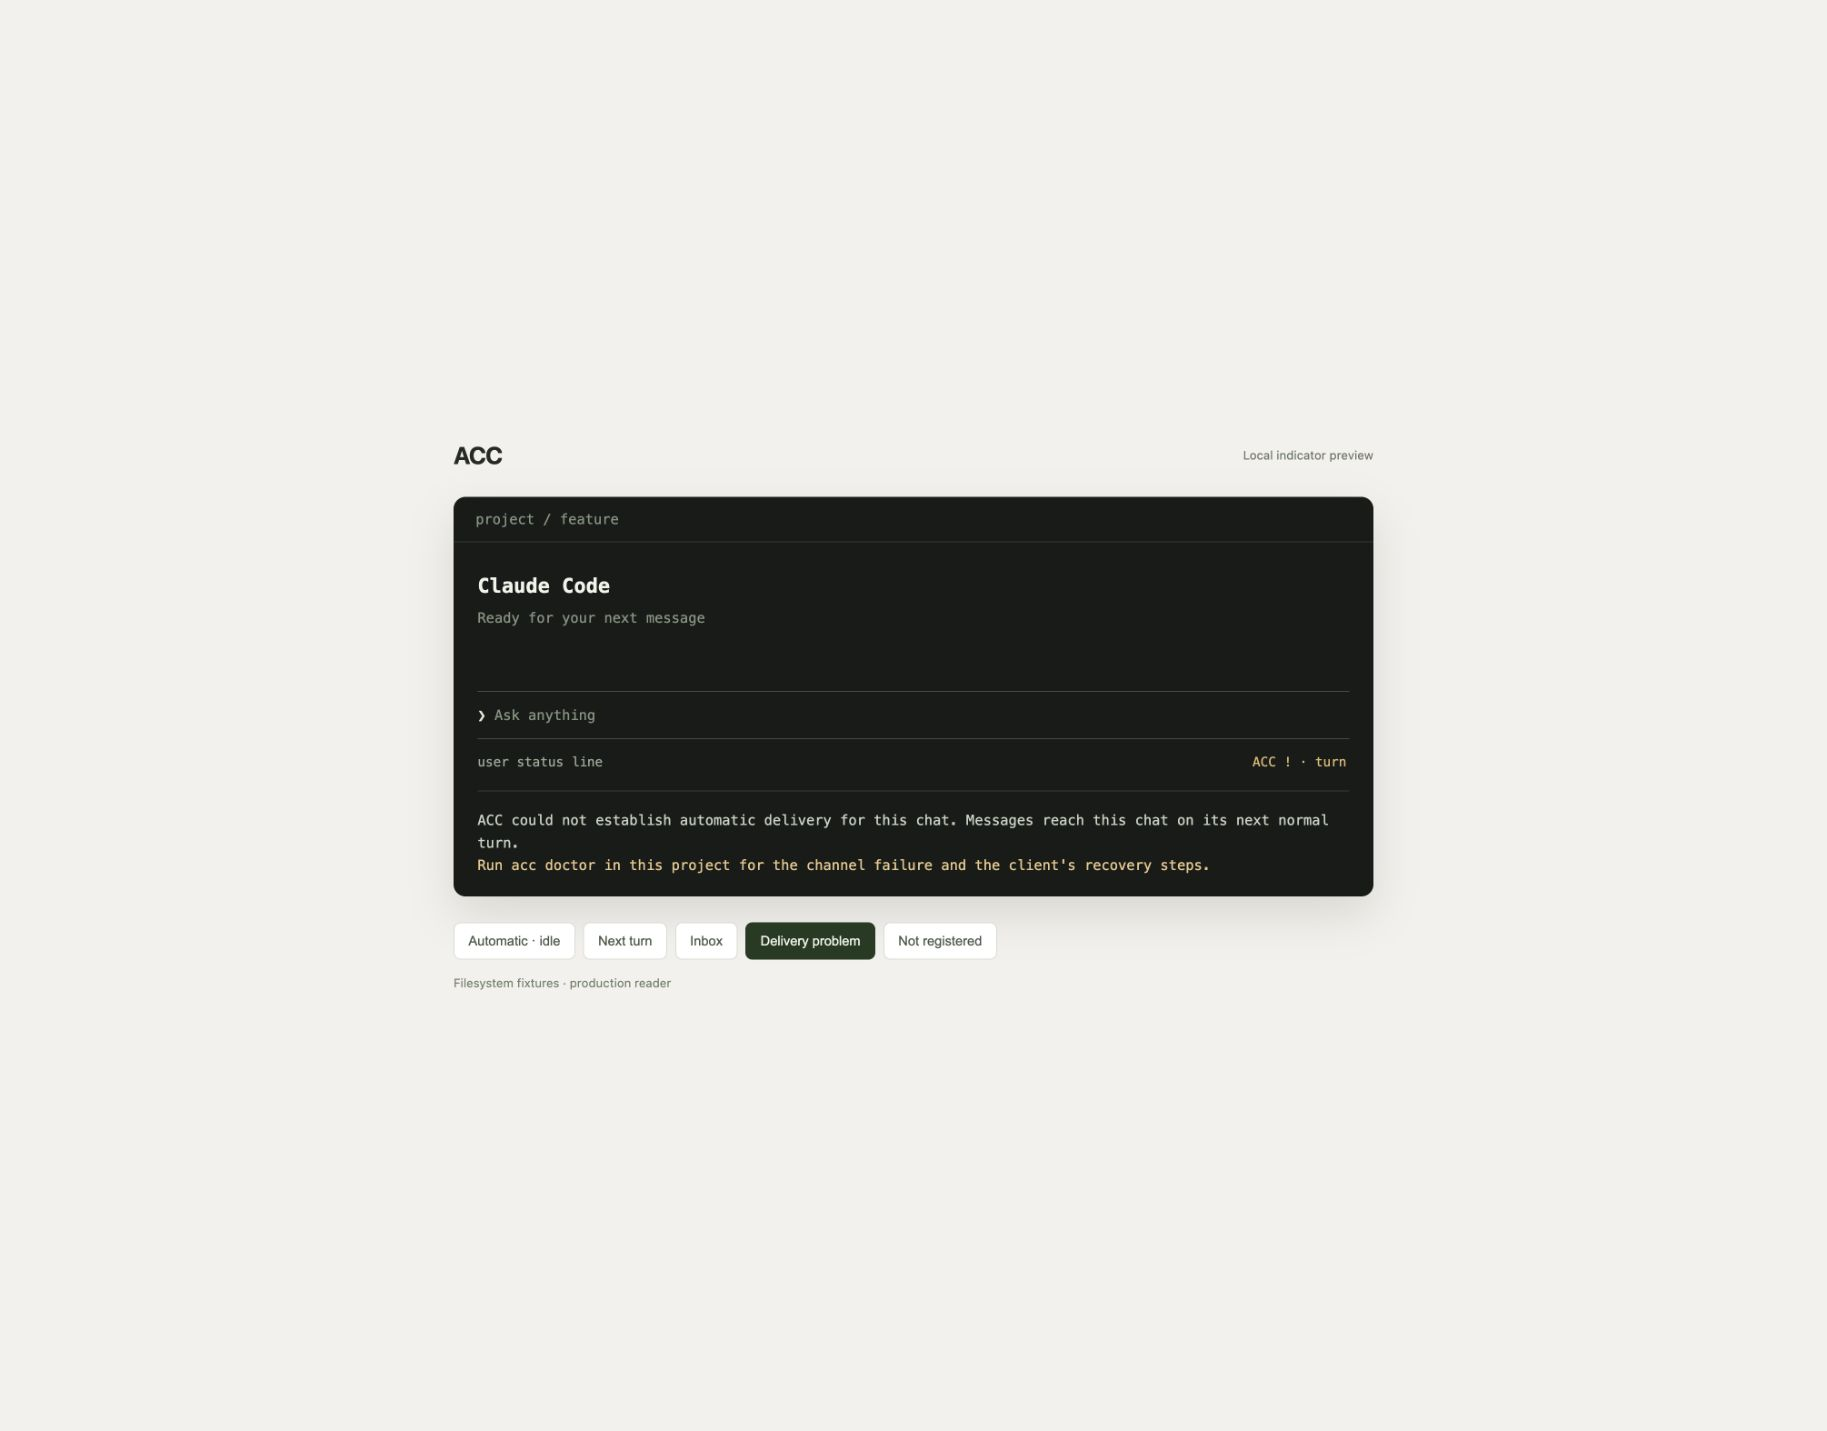
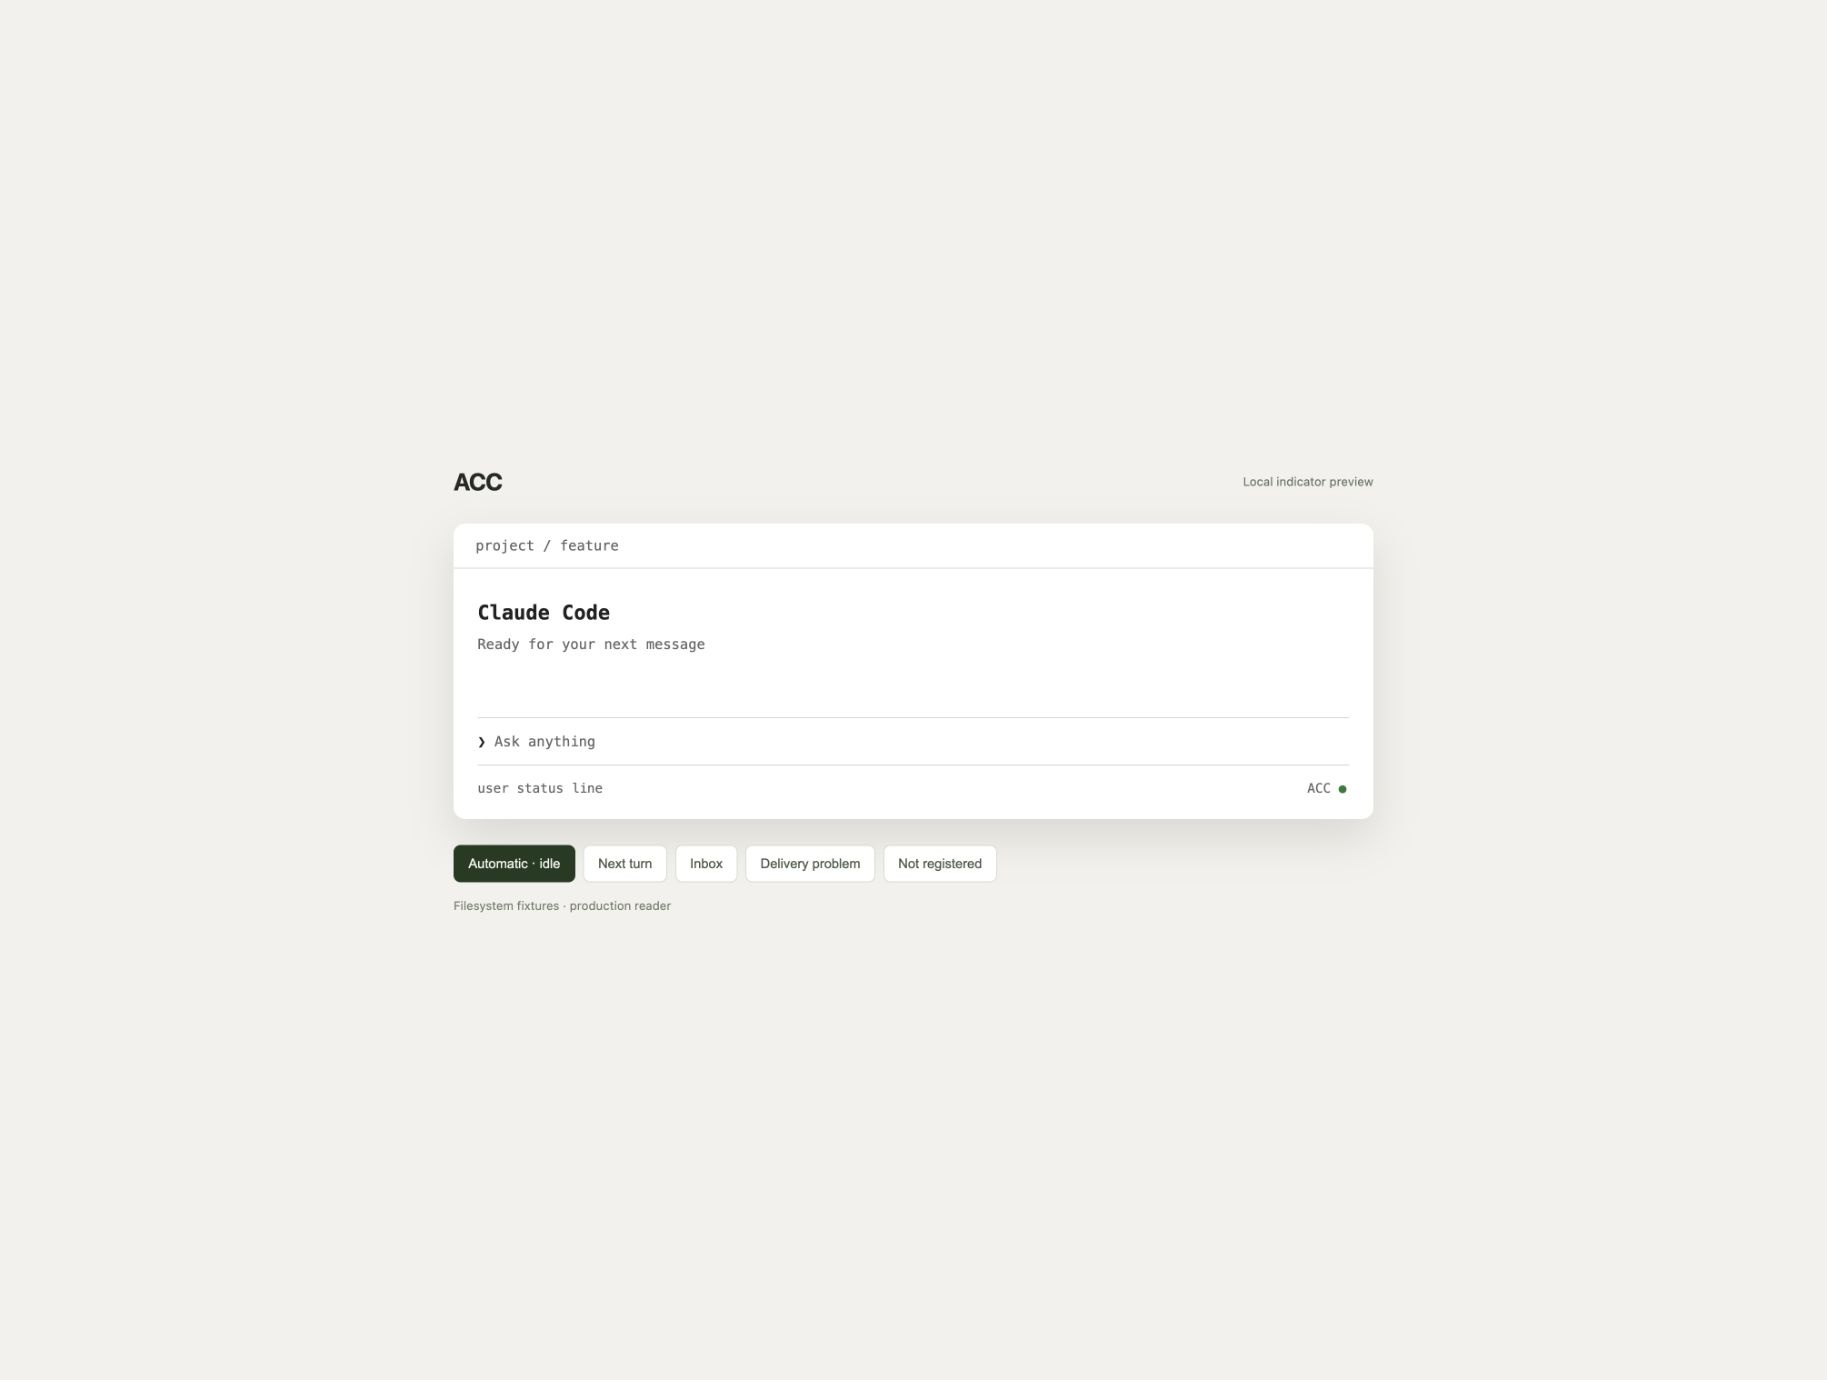
fix: give only the ACC status glyph a non-dim theme color

Changed region(s): [[0.2496, 0.3116, 0.78, 0.7167]]

diff --git a/packages/adapter-claude-code/COMPATIBILITY.md b/packages/adapter-claude-code/COMPATIBILITY.md
@@ -1099,3 +1099,16 @@ The 2.1.287 installation floor comes from the vendor's documented mods availabil
 earlier builds were not exercised in this capture. Client policy may disable user mods.
 See [the indicator contract](../../docs/STATUS_INDICATOR.md) and
 [artifact evidence](../../docs/release-evidence/unreleased-status-indicator.md).
+
+### Contrast correction — 2026-10-09
+
+A user screenshot showed that adding the whole label to `SessionMode.modes` made
+the successful dot gray. The renderer now retains the native footer reference and
+draws its own Text nodes. Only the status glyph uses the `success` or `warning`
+theme color, with `bold: true` and `dimColor: false`; no node adds a background.
+
+An isolated Claude Code 2.1.295 TUI emitted RGB `102,102,102` for `ACC` and RGB
+`44,122,57` with bold styling for `●` in the light theme. The existing custom
+status-line output remained present. This capture used an offline visual fixture,
+not another user's terminal window. The installed-module tests also verify the
+normal and failure colors, the neutral startup glyph, and unchanged native props.

diff --git a/docs/STATUS_INDICATOR.md b/docs/STATUS_INDICATOR.md
@@ -3,6 +3,10 @@
 The indicator describes incoming messages for the current chat. It does not describe
 other chats, confirm that a message was read, or promise when an agent will answer.
 
+In Claude Code, only the status glyph carries color: green for `●`, warning color for
+`!`, and neutral for `…`. The glyph uses the client's theme without dimming. The name
+and `turn`/`inbox` qualifier keep the ordinary footer color. No background is added.
+
 | Display | Meaning |
 |---|---|
 | `ACC ●` | ACC is active. This chat has an automatic delivery binding with no newer recorded failure. A busy client can queue a request. |
